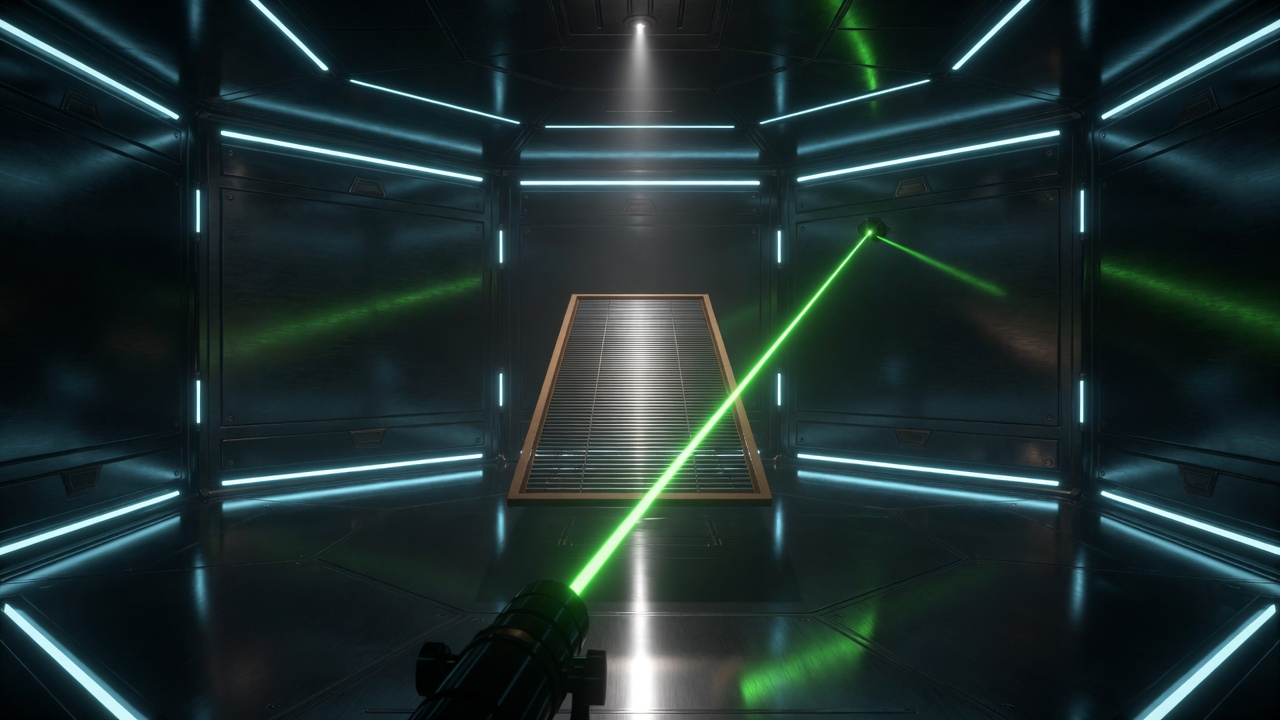
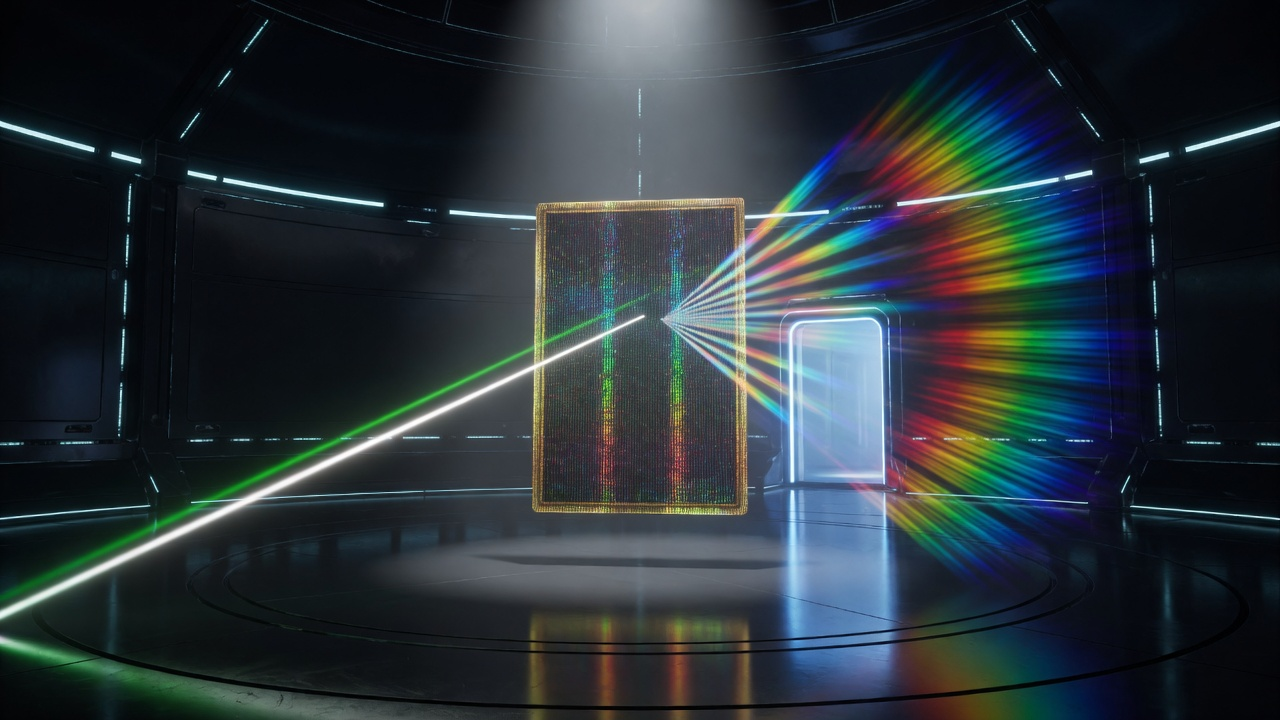
Skip the Littrow puzzle: vertical grating card, labs behind one door.

diff --git a/grok/test/littrow.test.js b/grok/test/littrow.test.js
@@ -36,29 +36,37 @@ describe('Littrow', () => {
     assert.ok(listWorlds().some((entry) => entry.id === 'littrow'));
     const world = getWorldData('littrow');
     assert.equal(world.id, 'littrow');
-    assert.equal(world.startRoom, 'rotunda');
-    assert.equal(world.rooms.length, 17);
+    assert.equal(world.startRoom, 'exhibit');
+    assert.equal(world.freeRoam, true);
+    assert.equal(world.rooms.length, 18);
     const catalog = readJson('data/catalog.json');
     const materials = readJson('data/materials.json');
     assert.deepEqual(validateWorld(world, catalog, materials), []);
   });
 
-  it('loads a stationary grating card and no combat kinds', () => {
+  it('loads a vertical floating grating card and one door to the labs', () => {
     const world = readJson('data/worlds/littrow.json');
     const catalog = readJson('data/catalog.json');
     const camera = new PerspectiveCamera(60, 1, 0.05, 280);
     const controller = loadWorld(world, catalog, camera, mockRenderer());
-    assert.equal(controller.currentRoom.id, 'rotunda');
+    assert.equal(controller.currentRoom.id, 'exhibit');
+    const exhibit = world.rooms.find((room) => room.id === 'exhibit');
+    assert.equal(exhibit.portals.length, 1);
+    assert.equal(exhibit.portals[0].destinationId, 'door-rotunda-exhibit');
     const kinds = new Set();
     let card = null;
     let lights = 0;
+    let faces = 0;
     for (const room of controller.rooms) {
       room.scene.traverse((object) => {
         if (object.userData.kind) {
           kinds.add(object.userData.kind);
         }
-        if (object.name === 'card-main') {
+        if (object.name === 'card-main' && room.id === 'exhibit') {
           card = object;
+        }
+        if (object.userData.gratingFace) {
+          faces += 1;
         }
         if (object.userData.runningLight) {
           lights += 1;
@@ -66,8 +74,15 @@ describe('Littrow', () => {
       });
     }
     assert.ok(card);
+    assert.ok(card.userData.grating.height > card.userData.grating.width);
     assert.equal(card.userData.grating.linesPerMm, 600);
     assert.equal(card.userData.spin, undefined);
+    assert.equal(card.userData.grating.hover, true);
+    assert.ok(faces >= 2);
+    const hot = controller.currentRoom.lasers.filter((laser) => laser.userData.laser.enabled);
+    assert.equal(hot.length, 1);
+    const lit = tickOptics([controller.currentRoom], { camera, dt: 0.016, controller, elapsed: 0 });
+    assert.ok(lit.beams >= 3, `exhibit beams ${lit.beams}`);
     assert.ok(kinds.has('prop.grating'));
     assert.ok(kinds.has('prop.laser'));
     assert.ok(kinds.has('prop.detector'));
@@ -84,9 +99,11 @@ describe('Littrow', () => {
     const camera = new PerspectiveCamera(60, 1, 0.05, 280);
     const controller = loadWorld(world, catalog, camera, mockRenderer());
     const room = controller.currentRoom;
+    assert.equal(room.id, 'exhibit');
     const card = room.gratings.find((entry) => entry.name === 'card-main') ?? room.gratings[0];
     assert.equal(card.userData.spin, undefined);
     assert.equal(card.userData.grating.locked, true);
+    assert.ok(card.userData.grating.height > card.userData.grating.width);
     const cycled = runInteract({ spec: { action: 'cycle-options' } }, { controller });
     assert.equal(cycled.type, 'cycle-options');
     assert.equal(card.userData.grating.linesPerMm, 1200);
@@ -110,27 +127,22 @@ describe('Littrow', () => {
     assert.equal(detector.userData.detector.order, 1);
   });
 
-  it('keeps lab doors sealed until the optics flags fire', () => {
+  it('opens every lab door from the exhibit and keeps the chain linked', () => {
     const world = readJson('data/worlds/littrow.json');
     const catalog = readJson('data/catalog.json');
     const camera = new PerspectiveCamera(60, 1, 0.05, 280);
     const controller = loadWorld(world, catalog, camera, mockRenderer());
-    assert.equal(controller.getPortal('door-rotunda-collimator').enabled, false);
-    assert.equal(controller.getPortal('door-rotunda-continuum').enabled, false);
-    assert.equal(controller.getPortal('door-rotunda-blaze').enabled, false);
-    assert.equal(controller.getPortal('door-rotunda-echelle').enabled, false);
-    assert.equal(controller.getPortal('door-rotunda-rowland').enabled, false);
-    assert.equal(controller.getPortal('door-rowland-disc').enabled, false);
-    assert.equal(controller.getPortal('door-slit-vault').enabled, false);
-    controller.flags = { 'found-zero': true };
-    syncOpticsDoors(controller);
+    assert.equal(controller.flags['free-roam'], true);
+    assert.equal(controller.getPortal('door-exhibit-labs').enabled, true);
+    assert.equal(controller.getPortal('door-rotunda-exhibit').destinationPortal.portalId, 'door-exhibit-labs');
     assert.equal(controller.getPortal('door-rotunda-collimator').enabled, true);
-    controller.flags['diode-405'] = true;
-    controller.flags['diode-532'] = true;
-    controller.flags['diode-633'] = true;
-    syncOpticsDoors(controller);
-    assert.equal(controller.flags['three-diodes'], true);
     assert.equal(controller.getPortal('door-rotunda-continuum').enabled, true);
+    assert.equal(controller.getPortal('door-rotunda-blaze').enabled, true);
+    assert.equal(controller.getPortal('door-rotunda-echelle').enabled, true);
+    assert.equal(controller.getPortal('door-rotunda-rowland').enabled, true);
+    assert.equal(controller.getPortal('door-rowland-disc').enabled, true);
+    assert.equal(controller.getPortal('door-slit-vault').enabled, true);
+    assert.ok(world.rooms.every((room) => !(room.portals ?? []).some((portal) => portal.enabled === false)));
   });
 
   it('locks the collimator card and keeps 532 nm first order at 18.6 deg', () => {
@@ -139,7 +151,8 @@ describe('Littrow', () => {
     const card = collimator.entities.find((entity) => entity.id === 'card-collimator');
     assert.equal(card.props.spin, undefined);
     assert.ok(world.rooms.every((room) => !room.entities.some((entity) => entity.kind === 'prop.grating' && entity.props?.spin)));
-    assert.ok(world.rooms[0].entities.some((entity) => entity.props?.action === 'cycle-options'));
+    const exhibit = world.rooms.find((room) => room.id === 'exhibit');
+    assert.ok(exhibit.entities.some((entity) => entity.props?.action === 'cycle-options'));
     const echelle = world.rooms.find((room) => room.id === 'echelle').entities.find((entity) => entity.id === 'card-echelle');
     assert.equal(echelle.props.linesPerMm, 75);
     assert.equal(echelle.props.mMin, 12);

diff --git a/grok/src/content/prefabs.js b/grok/src/content/prefabs.js
@@ -1160,29 +1160,58 @@ export const prefabs = {
   grating(entity) {
     const group = new THREE.Group();
     applyPose(group, entity);
-    const width = entity.props?.width ?? 1.4;
-    const height = entity.props?.height ?? 0.88;
+    const width = entity.props?.width ?? 1.22;
+    const height = entity.props?.height ?? 1.78;
+    const thickness = entity.props?.thickness ?? 0.04;
     const linesPerMm = entity.props?.linesPerMm ?? 600;
-    const blazeDeg = entity.props?.blazeDeg ?? 17.45;
+    const blazeDeg = entity.props?.blazeDeg ?? 10.37;
     const mode = entity.props?.mode ?? 'reflect';
-    const face = new THREE.Mesh(
-      new THREE.BoxGeometry(width, height, 0.03),
-      createGratingMaterial({ linesPerMm, blazeDeg, mode }),
-    );
+    const portrait = height >= width * 0.95;
+    const border = portrait ? Math.min(0.09, width * 0.075) : 0.04;
+    const nameH = portrait ? 0.13 : 0;
+    const artW = Math.max(0.18, width - border * 2);
+    const artH = Math.max(0.18, height - border * 2 - nameH);
+    const stock = buildMaterial('optics.card');
+    const body = new THREE.Mesh(new THREE.BoxGeometry(width, height, thickness), stock);
+    body.castShadow = true;
+    body.receiveShadow = true;
+    body.userData.collider = { type: 'aabb' };
+    group.add(body);
+    const gratingMat = createGratingMaterial({ linesPerMm, blazeDeg, mode, lightOn: 0.55 });
+    const artY = portrait ? -nameH * 0.5 : 0;
+    const face = new THREE.Mesh(new THREE.PlaneGeometry(artW, artH), gratingMat);
+    face.position.set(0, artY, thickness * 0.5 + 0.0016);
     face.castShadow = false;
-    face.receiveShadow = true;
-    face.userData.collider = { type: 'aabb' };
+    face.receiveShadow = false;
+    face.userData.gratingFace = true;
     group.add(face);
-    const rim = buildMaterial('optics.rim');
-    addBox(group, rim, 0, height * 0.5 + 0.02, 0, width + 0.08, 0.04, 0.04);
-    addBox(group, rim, 0, -height * 0.5 - 0.02, 0, width + 0.08, 0.04, 0.04);
-    addBox(group, rim, -width * 0.5 - 0.02, 0, 0, 0.04, height + 0.08, 0.04);
-    addBox(group, rim, width * 0.5 + 0.02, 0, 0, 0.04, height + 0.08, 0.04);
+    const back = new THREE.Mesh(new THREE.PlaneGeometry(artW, artH), gratingMat);
+    back.position.set(0, artY, -(thickness * 0.5 + 0.0016));
+    back.rotation.y = Math.PI;
+    back.castShadow = false;
+    back.receiveShadow = false;
+    back.userData.gratingFace = true;
+    group.add(back);
+    const rim = buildMaterial(portrait ? 'optics.foil' : 'optics.rim');
+    const t = Math.max(0.028, border * 0.5);
+    addBox(group, rim, 0, height * 0.5 - t * 0.5, 0, width + 0.012, t, thickness + 0.02, false);
+    addBox(group, rim, 0, -height * 0.5 + t * 0.5, 0, width + 0.012, t, thickness + 0.02, false);
+    addBox(group, rim, -width * 0.5 + t * 0.5, 0, 0, t, height + 0.012, thickness + 0.02, false);
+    addBox(group, rim, width * 0.5 - t * 0.5, 0, 0, t, height + 0.012, thickness + 0.02, false);
+    if (portrait) {
+      const plate = new THREE.Mesh(
+        new THREE.BoxGeometry(artW, Math.max(0.06, nameH * 0.7), 0.01),
+        rim,
+      );
+      plate.position.set(0, height * 0.5 - border - nameH * 0.42, thickness * 0.5 + 0.006);
+      plate.castShadow = false;
+      group.add(plate);
+    }
     group.userData.grating = {
       linesPerMm,
       blazeDeg,
       mode,
-      hover: false,
+      hover: entity.props?.hover === true,
       baseY: entity.position?.[1] ?? group.position.y,
       locked: true,
       mMin: entity.props?.mMin ?? null,
@@ -1191,6 +1220,8 @@ export const prefabs = {
       options: entity.props?.options ?? null,
       optionIndex: 0,
       label: entity.props?.options?.[0]?.label ?? `${linesPerMm} /mm ${mode}`,
+      width,
+      height,
     };
     return group;
   },

diff --git a/grok/src/optics/gratingMaterial.js b/grok/src/optics/gratingMaterial.js
@@ -82,9 +82,19 @@ const fragmentShader = /* glsl */ `
     float cosI = clamp(dot(toward, n), -1.0, 1.0);
     float thetaI = sign(dot(toward, tangent)) * acos(cosI);
     float d = 0.001 / max(uLinesPerMm, 1.0);
-    vec3 color = uBase * 0.35;
-    float groove = 0.04 * sin(vUv.x * uLinesPerMm * 6.28318 + uTime * 0.15);
-    color += groove * vec3(0.08, 0.09, 0.1);
+    float blaze = uBlazeDeg * 0.01745329252;
+    vec3 facetN = normalize(n * cos(blaze) + tangent * sin(blaze));
+    vec3 color = uBase * 0.28;
+    float groove = 0.5 + 0.5 * sin(vUv.x * uLinesPerMm * 6.28318);
+    color += groove * vec3(0.05, 0.055, 0.06);
+
+    float fres = pow(1.0 - max(dot(n, viewDir), 0.0), 2.4);
+    float foil = fract(vUv.x * 3.4 + vUv.y * 5.1 + viewDir.x * 0.7 + uTime * 0.08);
+    float nmFoil = mix(410.0, 690.0, foil);
+    color += wavelengthRgb(nmFoil) * (0.16 + 0.55 * fres) * (0.35 + 0.65 * max(uLightOn, 0.25));
+
+    float spec = pow(max(dot(reflect(-light, facetN), viewDir), 0.0), 36.0);
+    color += spec * vec3(0.92, 0.94, 1.0) * 0.4;
 
     int samples = uLightLambdaNm > 0.0 ? 1 : 11;
     for (int s = 0; s < 11; s += 1) {
@@ -94,7 +104,7 @@ const fragmentShader = /* glsl */ `
       float nm = uLightLambdaNm > 0.0 ? uLightLambdaNm : mix(400.0, 700.0, float(s) / 10.0);
       float lambda = nm * 1e-9;
       vec3 rgb = wavelengthRgb(nm);
-      float weight = uLightOn * (uLightLambdaNm > 0.0 ? 1.2 : 0.45);
+      float weight = max(uLightOn, 0.22) * (uLightLambdaNm > 0.0 ? 1.25 : 0.5);
       for (int m = -3; m <= 3; m += 1) {
         float thetaM;
         if (m == 0) {
@@ -115,7 +125,7 @@ const fragmentShader = /* glsl */ `
         }
       }
     }
-    color = min(color, vec3(1.4));
+    color = min(color, vec3(1.55));
     gl_FragColor = vec4(color, uMode > 0.5 ? 0.72 : 1.0);
   }
 `;
@@ -124,12 +134,12 @@ export function createGratingMaterial(spec = {}) {
   const material = new ShaderMaterial({
     uniforms: {
       uLinesPerMm: { value: spec.linesPerMm ?? 600 },
-      uBlazeDeg: { value: spec.blazeDeg ?? 17.45 },
+      uBlazeDeg: { value: spec.blazeDeg ?? 10.37 },
       uMode: { value: spec.mode === 'transmit' ? 1 : 0 },
       uViewPos: { value: new Vector3(0, 1, 6) },
       uLightDir: { value: new Vector3(0, -0.2, -1) },
       uLightLambdaNm: { value: spec.lambdaNm ?? 0 },
-      uLightOn: { value: spec.lightOn ?? 0.35 },
+      uLightOn: { value: spec.lightOn ?? 0.55 },
       uTime: { value: 0 },
       uBase: { value: new Color(0x2a3038) },
     },

diff --git a/grok/src/content/loadWorld.js b/grok/src/content/loadWorld.js
@@ -2,7 +2,7 @@ import { Scene } from 'three';
 import { PortalController } from '../engine/index.js';
 import { parseColor, spawnEntity } from './prefabs.js';
 import { attachMotes, indexRoomFx, setMoteDensity, tintGlow } from '../engine/atmosphere.js';
-import { indexRoomOptics } from '../optics/tickOptics.js';
+import { indexRoomOptics, syncOpticsDoors } from '../optics/tickOptics.js';
 import { applyClimateToScene, climateForDepth } from './climate.js';
 
 export function withOrigin(vec, origin) {
@@ -79,6 +79,16 @@ export function loadWorld(world, catalog, camera, renderer) {
   relinkPortals(controller);
 
   dressRooms(controller);
+
+  controller.flags = { ...(world.flags ?? {}) };
+  if (world.freeRoam) {
+    controller.flags['free-roam'] = true;
+    controller.flags['littrow-lock'] = true;
+    for (const portal of controller.allPortals) {
+      portal.enabled = true;
+    }
+  }
+  syncOpticsDoors(controller);
 
   controller.setCurrentScene(world.startRoom);
   if (world.startSpawn) {

diff --git a/grok/test/capabilities.test.js b/grok/test/capabilities.test.js
@@ -1,0 +1,21 @@
+import { describe, it } from 'node:test';
+import assert from 'node:assert/strict';
+import { probeCapabilities } from '../src/engine/capabilities.js';
+import { assertMultiplayerAllowed, multiplayerStatus } from '../src/net/multiplayer.js';
+
+describe('parked remainder', () => {
+  it('never substitutes WebGPU for stencil doors', async () => {
+    const caps = await probeCapabilities();
+    assert.equal(caps.portalBackend, 'webgl');
+    assert.match(caps.reason, /WebGL/);
+  });
+
+  it('keeps multiplayer last and refuses Drift hosts', () => {
+    const status = multiplayerStatus();
+    assert.equal(status.available, false);
+    assert.equal(status.parked, true);
+    assert.equal(assertMultiplayerAllowed({ id: 'littrow' }), false);
+    assert.throws(() => assertMultiplayerAllowed({ id: 'drift', multiplayer: true }), /Drift cannot host multiplayer/);
+    assert.throws(() => assertMultiplayerAllowed({ id: 'littrow', multiplayer: true }), /parked last/);
+  });
+});

diff --git a/grok/src/game/session.js b/grok/src/game/session.js
@@ -6,6 +6,7 @@ import { hydrateRoomMaterials } from '../content/materials.js';
 import { openDrift } from '../content/drift.js';
 import { createOriginPool } from '../content/generateRoom.js';
 import { applyPose } from '../content/save.js';
+import { assertMultiplayerAllowed } from '../net/multiplayer.js';
 
 const TEXTURE_KEYS = ['map', 'normalMap', 'roughnessMap', 'metalnessMap', 'aoMap', 'emissiveMap'];
 
@@ -38,9 +39,7 @@ export function createSession({
       document.body.insertBefore(nextRenderer.domElement, document.body.firstChild);
     }
 
-    if (world?.multiplayer && (world.id === 'drift' || world.generated)) {
-      throw new Error('Drift cannot host multiplayer');
-    }
+    assertMultiplayerAllowed(world);
     const resolvedWorld = world?.id === 'drift' || world?.generated
       ? openDrift({ seed: pose?.seed, depth: pose?.depth ?? 0, kitId: pose?.kitId })
       : world;

diff --git a/grok/index.html b/grok/index.html
@@ -72,7 +72,7 @@
             <span class="help-card-shot" style="background-image:url(/help/orders.jpg)"></span>
             <div class="help-card-copy">
               <strong>Orders</strong>
-              <p>Littrow: the card stays still. Arm a source, walk the beams, press the pedestal to change d. Light the wall that matches m and lambda.</p>
+              <p>Littrow is an experimental hall. The floating card is a diffraction grating. Walk around it, press the pedestal to change d, and take the one door into the labs.</p>
             </div>
           </article>
         </div>

diff --git a/grok/src/net/multiplayer.js b/grok/src/net/multiplayer.js
@@ -1,0 +1,17 @@
+export function multiplayerStatus() {
+  return {
+    available: false,
+    parked: true,
+    reason: 'Multiplayer is last. Portal stencil stays a local WebGL walk.',
+  };
+}
+
+export function assertMultiplayerAllowed(world) {
+  if (!world?.multiplayer) {
+    return false;
+  }
+  if (world.id === 'drift' || world.generated) {
+    throw new Error('Drift cannot host multiplayer');
+  }
+  throw new Error('Multiplayer is parked last');
+}

diff --git a/grok/README.md b/grok/README.md
@@ -13,7 +13,7 @@ Each room is its own Three.js scene. A portal is a one-sided quad that:
 3. Decrements the stencil and depth-writes the opening so the current room cannot paint over dest
 4. Teleports the player when the eye crosses the door plane
 
-The portal pass **requires WebGL with a stencil buffer**. WebGPU is detected on the welcome card and reserved for later; it is not used to draw portals.
+The portal pass **requires WebGL with a stencil buffer**. WebGPU is detected on the welcome card and stays parked — it cannot replace stencil doors. Multiplayer is last and is not hosted. Combat is out.
 
 ## Requirements
 
@@ -56,7 +56,7 @@ Open [http://127.0.0.1:5173/](http://127.0.0.1:5173/). The start menu is HTML on
 | Gamepad | Left stick move, right stick look, A jump, Start pause / Play |
 | **Options** | Graphics, controls, interface, sound, keybinds |
 
-Play opens a world gallery. **Four halls** is blue → rose; glass panes and hallway monitors are furniture (the TV is a camera-to-texture of the hall you are in, not a portal). **The Hollow House** is a foyer, gallery, dining room, parlor, cellar, crypt, and a sealed attic — stand on the parlor pad and press **E** to unseal it. **Circuit Grid** is a plus hub: cyan runway, red throat, blue catwalk, shaft well, race ribbon, locked gold vault. **The Ages** walks nine distinct volumes from primordial court to orbital hull. **Drift** is one-way generated rooms — doors do not come back; enter a seed on Play. Worlds and looks are JSON: kinds in `data/catalog.json`, materials in `data/materials.json`, beds in `data/audio.json`. See `docs/world-design.md` and `docs/qa-walk.md`. Quit to menu writes a **Continue** save.
+Play opens a world gallery. **Four halls** is blue → rose; glass panes and hallway monitors are furniture (the TV is a camera-to-texture of the hall you are in, not a portal). **The Hollow House** is a foyer, gallery, dining room, parlor, cellar, crypt, and a sealed attic — stand on the parlor pad and press **E** to unseal it. **Circuit Grid** is a plus hub: cyan runway, red throat, blue catwalk, shaft well, race ribbon, locked gold vault. **The Ages** walks nine distinct volumes from primordial court to orbital hull. **Littrow** is an experimental rotunda around a vertical grating card; one door holds the labs. **Drift** is one-way generated rooms — doors do not come back; enter a seed on Play. Worlds and looks are JSON: kinds in `data/catalog.json`, materials in `data/materials.json`, beds in `data/audio.json`. See `docs/world-design.md` and `docs/qa-walk.md`. Quit to menu writes a **Continue** save.
 
 Query flags:
 

diff --git a/grok/docs/world-design.md b/grok/docs/world-design.md
@@ -182,10 +182,13 @@ Hub option (later): a “gallery of doors” room whose portals are the eras, so
 
 | # | Deliverable | Status |
 | --- | --- | --- |
-| 0 | Material catalog, asset folders, this plan, draft index | now |
-| 1 | Circuit Grid, four lanes, cyber bed, playable | now (seed) |
-| 2 | Ages draft: mesozoic + orbital, hidden from picker | now (seed) |
-| 3 | Circuit extras: gold lane, strips that read as runways | todo |
-| 4 | Ages: fill the era table, fire in stone, glass in present | todo |
-| 5 | Optional PNG/HDR/video files behind the same material ids | todo |
-| 6 | GLTF dressing + collider JSON | todo (parked with NPCs) |
+| 0 | Material catalog, asset folders, this plan, draft index | done |
+| 1 | Circuit Grid, four lanes, cyber bed, playable | done |
+| 2 | Ages draft: mesozoic + orbital, hidden from picker | done (now playable) |
+| 3 | Circuit extras: gold lane, strips that read as runways | done |
+| 4 | Ages: fill the era table, fire in stone, glass in present | done |
+| 5 | Optional PNG/HDR/video files behind the same material ids | done (recipe fallback) |
+| 6 | GLTF dressing + collider JSON | parked with NPCs |
+| 7 | Littrow experimental hall + grating card | done (not a puzzle) |
+| 8 | WebGPU as a door substitute | parked (stencil stays WebGL) |
+| 9 | Multiplayer | last / parked |
